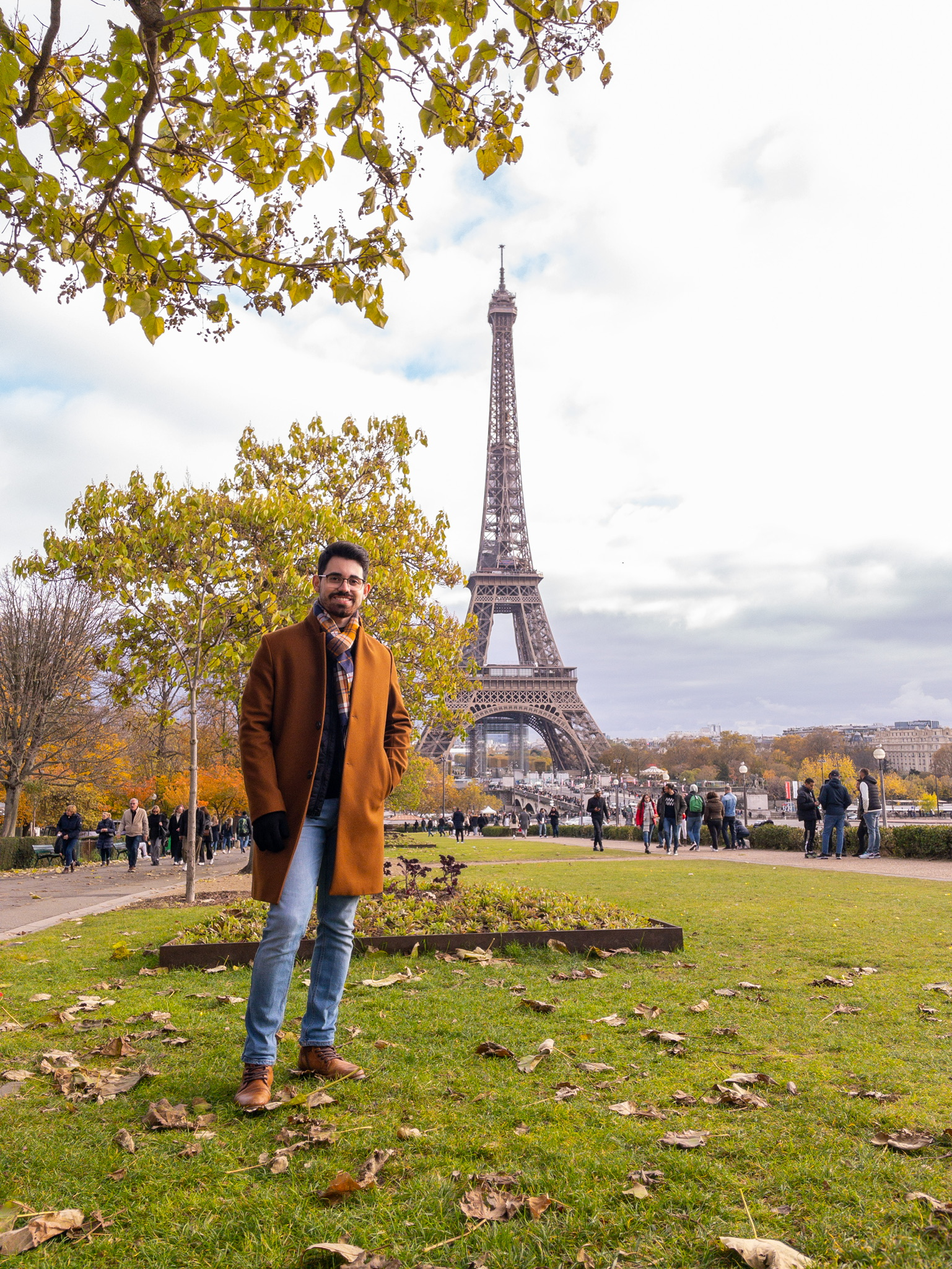
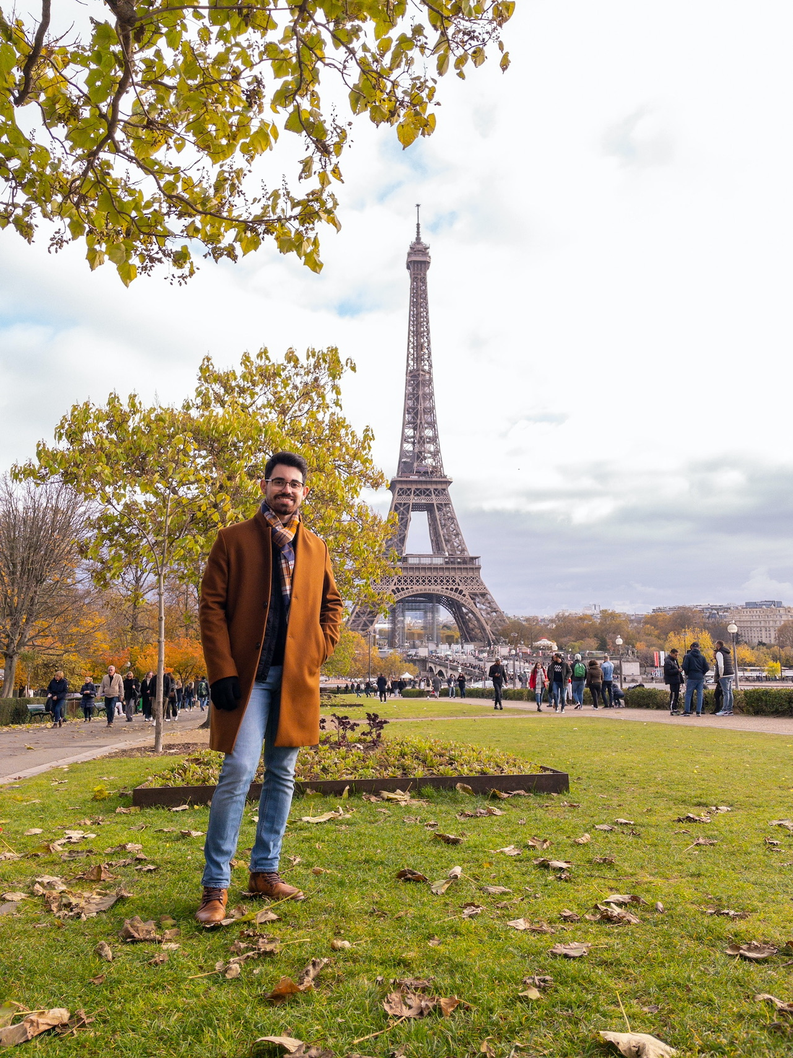
resize here image and remove card animation for mobile

diff --git a/src/Styles/about.css b/src/Styles/about.css
@@ -4,27 +4,17 @@
 }
 
 .card.company-card {
-  /* border: 0;
-  border-radius: 0;
-  border-bottom-right-radius: 4em;
-  border-top-left-radius: 4em;
-  background: linear-gradient(
-    to left,
-    var(--steel-blue) 50%,
-    var(--raisin-black) 50%
-  );
-  background-size: 200%;
-  background-position: right;
-  transition: background-position 0.5s ease-out; */
   color: black;
-  /* box-shadow: 5px 5px 10px #e1e1e1; */
   box-shadow: 0 4px 6px 0 rgba(22, 22, 26, 0.18);
 
   border-radius: 2em;
   transition: transform 0.2s ease;
 }
-.card.company-card:hover {
-  transform: scale(1.1);
+
+@media screen and (min-width: 768px) {
+  .card.company-card:hover {
+    transform: scale(1.1);
+  }
 }
 
 .company-card-img-container {
